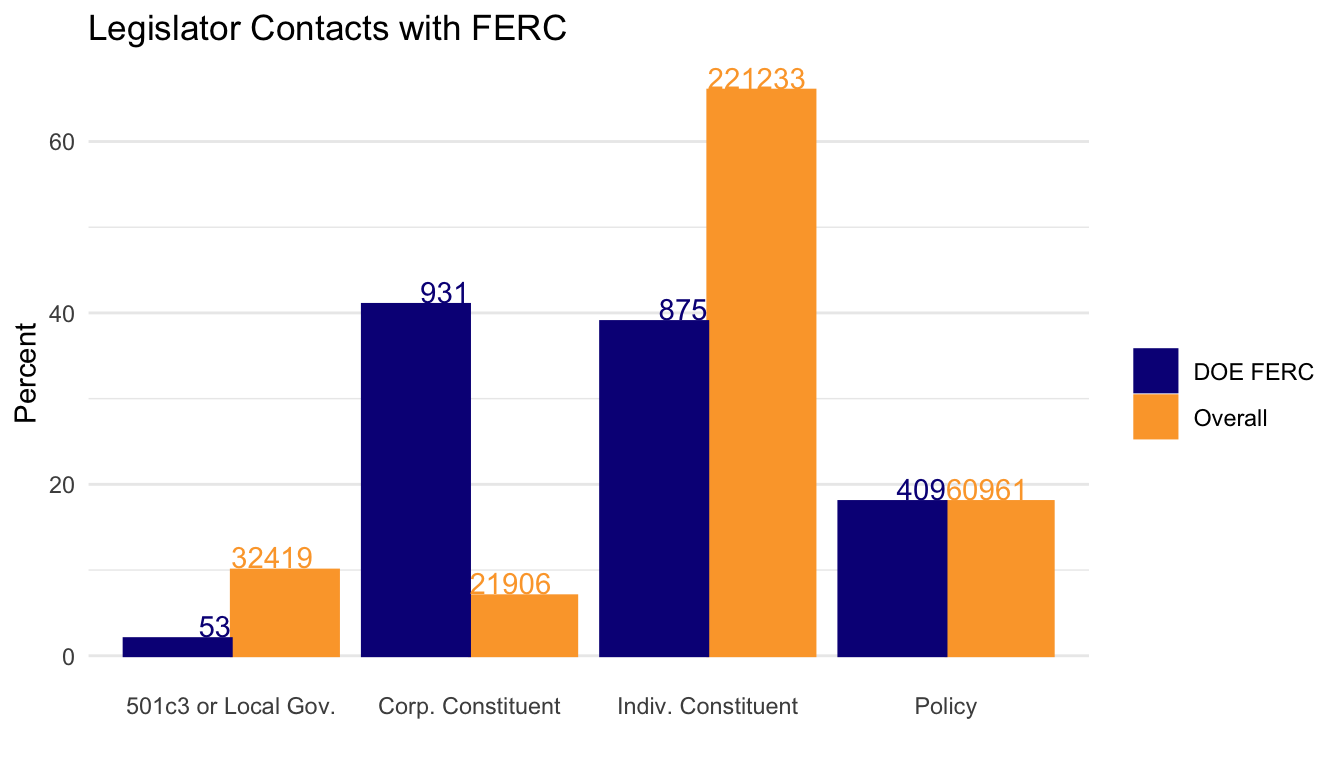
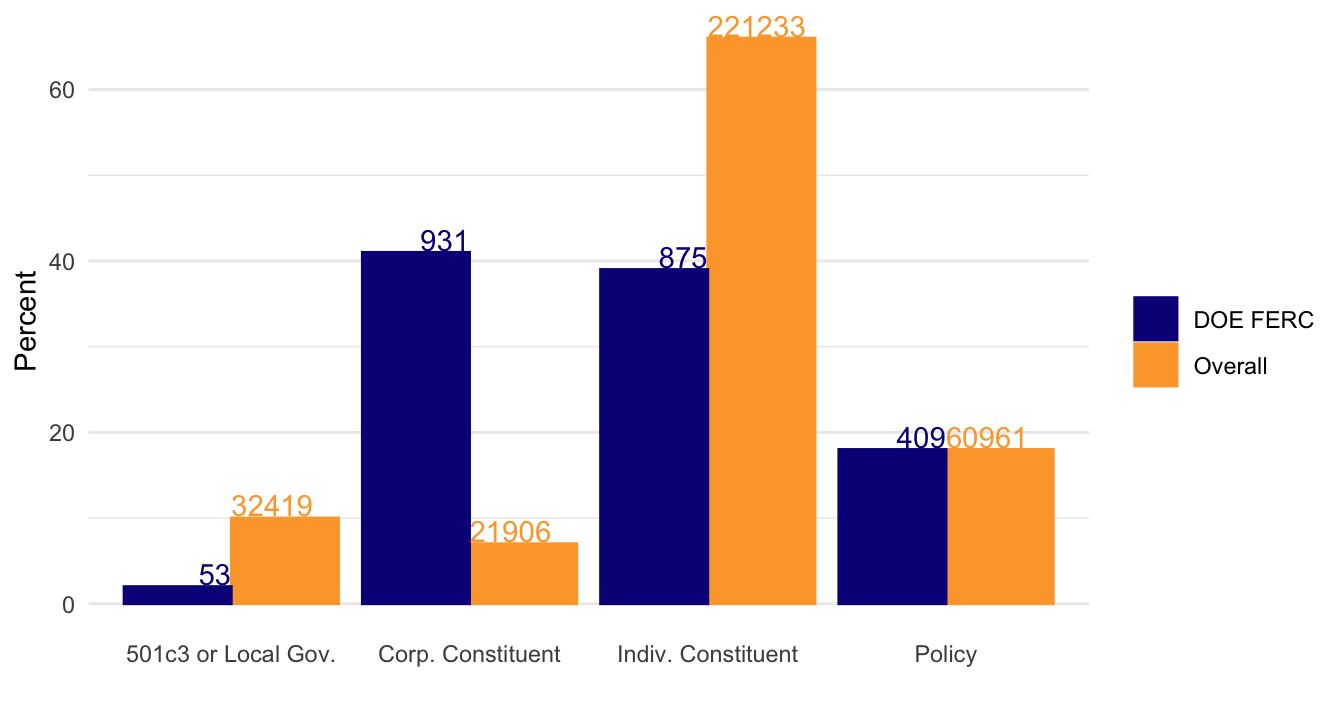
aess

diff --git a/FERC/2020AESS.html b/FERC/2020AESS.html
@@ -305,19 +305,19 @@ class: center inverse
 
 On behalf of energy companies, supporting a permit or project
 
-&lt;img src="/Users/devin/correspondence/FERC/figs/FERC_mooney.png" width="550px" style="display: block; margin: auto;" /&gt;
+&lt;img src="figs/FERC_mooney.png" width="550px" style="display: block; margin: auto;" /&gt;
 
 ---
 
 On behalf of energy companies, supporting a permit or project
 
-&lt;img src="/Users/devin/correspondence/FERC/figs/FERC_thornberry.png" width="550px" style="display: block; margin: auto;" /&gt;
+&lt;img src="figs/FERC_thornberry.png" width="550px" style="display: block; margin: auto;" /&gt;
 
 ---
 
 On behalf of individuals and non-energy companies, opposing an energy project
 
-&lt;img src="/Users/devin/correspondence/FERC/figs/FERC_collins.png" width="550px" style="display: block; margin: auto;" /&gt;
+&lt;img src="figs/FERC_collins.png" width="550px" style="display: block; margin: auto;" /&gt;
 
 ???
 
@@ -328,7 +328,7 @@ This is a constituency service letter written by Senator Susan Collins
 
 On behalf of his own business, opposing an energy project
 
-&lt;img src="/Users/devin/correspondence/FERC/figs/FERC_graham.png" width="550px" style="display: block; margin: auto;" /&gt;
+&lt;img src="figs/FERC_graham.png" width="550px" style="display: block; margin: auto;" /&gt;
 
 
 ---
@@ -336,7 +336,7 @@ On behalf of his own business, opposing an energy project
 
 Not always "behind-the-scenes."
 
-&lt;img src="/Users/devin/correspondence/FERC/figs/schumer-cosigned-letter-tweet.png" width="550px" style="display: block; margin: auto;" /&gt;
+&lt;img src="figs/schumer-cosigned-letter-tweet.png" width="550px" style="display: block; margin: auto;" /&gt;
 
 ---
 
